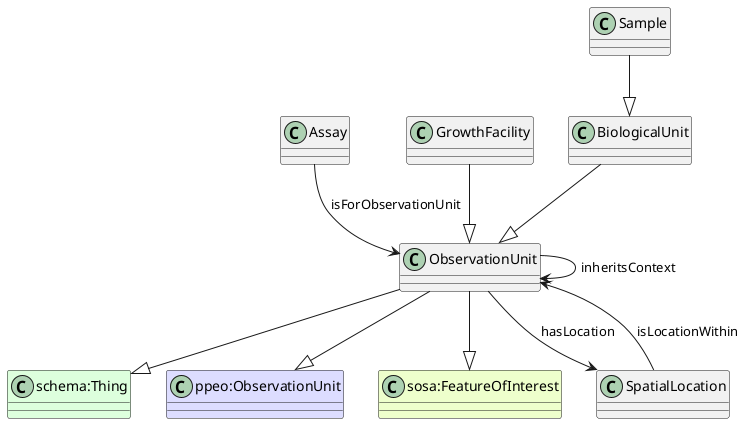
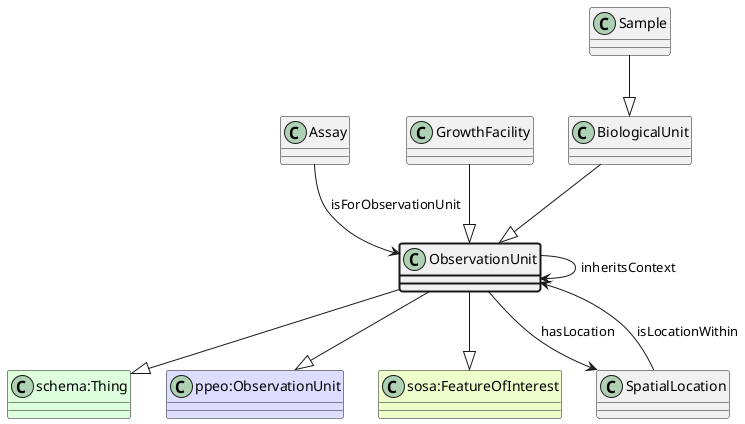
Ensure bold focus class

Changed region(s): [[0.5248, 0.5519, 0.7409, 0.7052]]

diff --git a/ttl2uml.py b/ttl2uml.py
@@ -141,14 +141,18 @@ def write_properties(uml: io.TextIOWrapper, md: io.TextIOWrapper, cls: tuple[str
                 md.write(f"## Properties\n")
                 heading_written = True
             if len(property[1]) == 0:
-                uml.write(f"class {class_name} {{\n    {ppty_name}\n}}\n")
+                if cls == focus_class:
+                    uml.write(f"class {class_name} #line.bold {{\n    {ppty_name}\n}}\n")
+                else:
+                    uml.write(f"class {class_name} #line.bold {{\n    {ppty_name}\n}}\n")
                 md.write(f"* {focus_class[1]} {prefixes[ppty[0]]}{ppty[1]}\n")
             for r in property[1]:
                 if r == cls:
                     reflexive = True
                 r_name = get_name(r)
-                package_colour = "" if r[0] == "appn" else package_colours[r[0]]
-                uml.write(f"class {r_name} {package_colour}\n")
+                if r != focus_class:
+                    package_colour = "" if r[0] == "appn" else package_colours[r[0]]
+                    uml.write(f"class {r_name} {package_colour}\n")
                 uml.write(f"{class_name} --> {r_name} : {ppty_name}\n")
                 if cls == focus_class:
                     this_class = f"{focus_class[0]}:{focus_class[1]}"
@@ -169,8 +173,9 @@ def write_properties(uml: io.TextIOWrapper, md: io.TextIOWrapper, cls: tuple[str
                     heading_written = True
                 if r != cls or not reflexive:
                     r_name = get_name(r)
-                    package_colour = "" if r[0] == "appn" else package_colours[r[0]]
-                    uml.write(f"class {r_name} {package_colour}\n")
+                    if r != focus_class:
+                        package_colour = "" if r[0] == "appn" else package_colours[r[0]]
+                        uml.write(f"class {r_name} {package_colour}\n")
                     uml.write(f"{r_name} --> {class_name} : {ppty_name}\n")
                     if cls == focus_class:
                         this_class = f"{focus_class[0]}:{focus_class[1]}"
